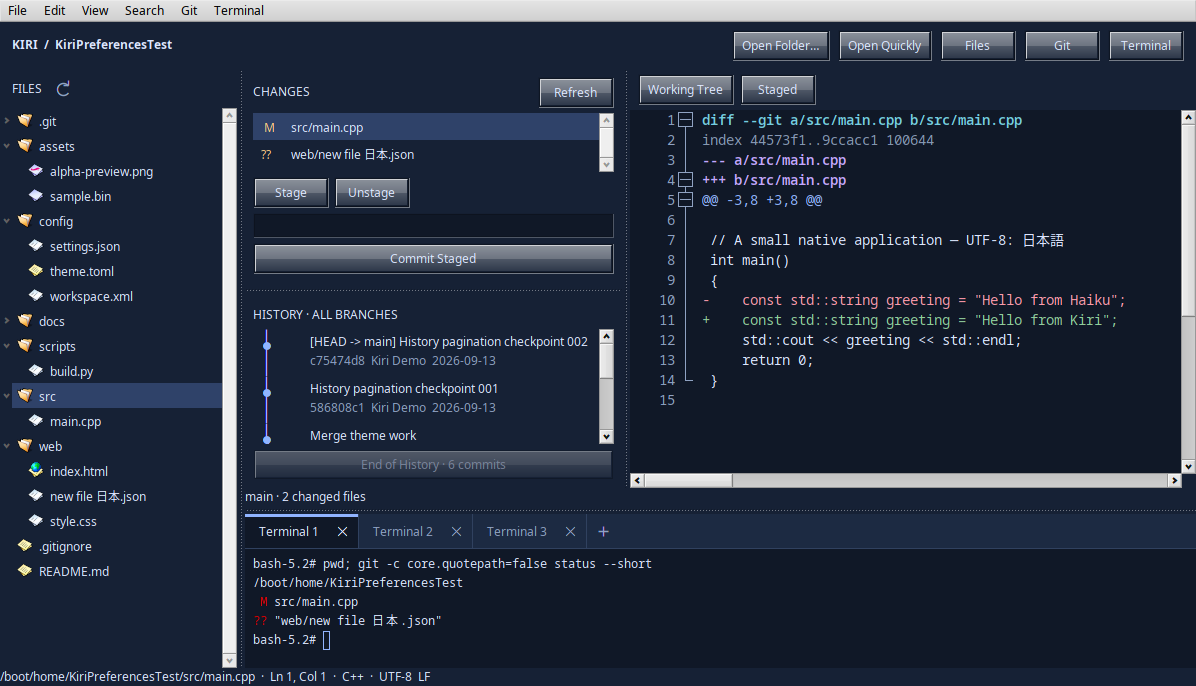
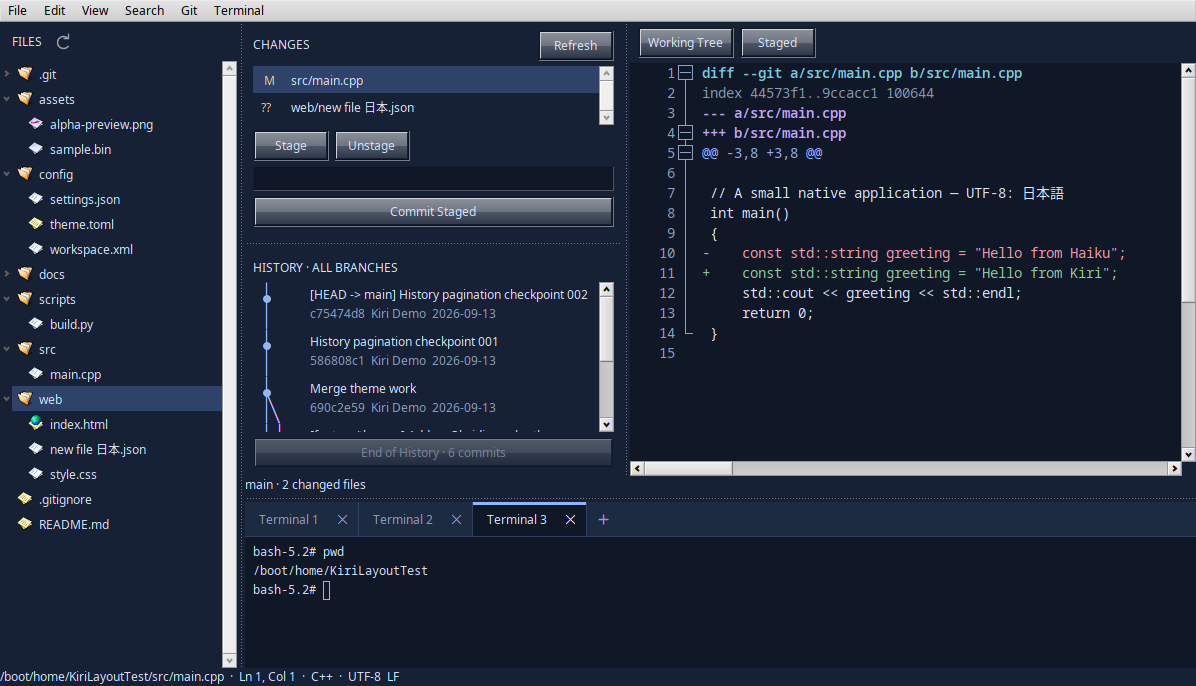
Simplify workspace by removing the top toolbar

diff --git a/src/ui/Workspace.cpp b/src/ui/Workspace.cpp
@@ -153,14 +153,6 @@ Workspace::Workspace(const std::string& settingsDirectory):BWindow(BRect(40,70,1
     fRecoveryDirectory=fSettings+"/recovery";create_directory(fRecoveryDirectory.c_str(),0700);
     fSessionToken=std::to_string(time(nullptr))+"-"+std::to_string(getpid());
     fRecoveryJobs=std::make_unique<AsyncQueue>(BMessenger(this));
-    fProjectTitle=new BStringView("project title","KIRI  /  No Project");fProjectTitle->SetFont(be_bold_font);
-    auto* open=new BButton("open project","Open Folder…",new BMessage(kOpenProject));
-    auto* files=new BButton("show files","Files",new BMessage(kToggleSidebar));
-    auto* git=new BButton("show git","Git",new BMessage(kToggleGit));
-    auto* terminal=new BButton("show terminal","Terminal",new BMessage(kToggleTerminal));
-    auto* quick=new BButton("quick open","Open Quickly",new BMessage(kQuickOpen));
-    auto* toolbar=new BView("toolbar",0);
-    BLayoutBuilder::Group<>(toolbar,B_HORIZONTAL,8).SetInsets(12,8,12,8).Add(fProjectTitle).AddGlue().Add(open).Add(quick).Add(files).Add(git).Add(terminal);
     fExplorer=new Explorer();fExplorer->requestDirectory=[this](std::string path){LoadDirectory(path);};
     fRefresh=new RefreshButton(new BMessage(kRefresh));
     auto* sidebar=new BView("sidebar",0);
@@ -194,7 +186,7 @@ Workspace::Workspace(const std::string& settingsDirectory):BWindow(BRect(40,70,1
     sidebar->SetExplicitMinSize(BSize(170,150));sidebar->SetExplicitMaxSize(BSize(600,B_SIZE_UNLIMITED));
     fStatus=new BStringView("status","Ready");fStatus->SetExplicitMinSize(BSize(200,25));
     auto* menu=BuildMenus();
-    BLayoutBuilder::Group<>(this,B_VERTICAL,0).Add(menu).Add(toolbar).Add(fSidebarSplit).Add(fStatus);
+    BLayoutBuilder::Group<>(this,B_VERTICAL,0).Add(menu).Add(fSidebarSplit).Add(fStatus);
     for(int32 i=0;i<CountChildren();++i) ThemeView(ChildAt(i),Theme::Builtins()[0]);
     ResizeTo(1195,685);
     RestoreSettings();ApplyTheme(fEditorSettings.theme);
@@ -275,7 +267,7 @@ void Workspace::OpenProject(const std::string& input) {
     if(!fs::is_directory(path,error)) { Notice("Cannot open that folder.");return; }
     bool changed=fProject!=path;
     fProject=path;++fGeneration;fIndex=std::make_shared<ProjectIndex>();fGitRoot.clear();fExplorer->Clear();fGit->SetRepository("");
-    fProjectTitle->SetText(("KIRI  /  "+fs::path(path).filename().string()).c_str());SetTitle((fs::path(path).filename().string()+" — Kiri").c_str());
+    SetTitle((fs::path(path).filename().string()+" — Kiri").c_str());
     Notice("Opening project…");auto generation=fGeneration;
     LoadDirectory(path);
     fJobs->Submit([this,path,generation](const auto& cancel) {

diff --git a/src/ui/Workspace.h b/src/ui/Workspace.h
@@ -108,7 +108,6 @@ private:
     BCardLayout* fModeLayout;
     BSplitView* fSidebarSplit;
     BSplitView* fTerminalSplit;
-    BStringView* fProjectTitle;
     BStringView* fStatus;
     BView* fFindBar;
     BTextControl* fFindText;

diff --git a/README.md b/README.md
@@ -4,7 +4,7 @@ A native C++ project editor for Haiku, with a file tree, source editing, an
 embedded terminal and a Git workspace. Kiri uses Haiku's Interface Kit,
 Scintilla, Lexilla and libvterm. There is no browser or web UI runtime.
 
-**0.1.0 beta 3** builds and runs on Haiku R1/beta5 x86_64. The application has
+**0.1.0 beta 4** builds and runs on Haiku R1/beta5 x86_64. The application has
 been exercised in QEMU/KVM, including real editing, staging and committing,
 crash recovery, image previews and a 200 MiB document. See the
 [verification record](docs/STATUS.md) and [performance measurements](docs/PERFORMANCE.md).
@@ -16,7 +16,7 @@ crash recovery, image previews and a 200 MiB document. See the
 Install the package from `artifacts/` on Haiku:
 
 ```sh
-pkgman install ./artifacts/kiri-0.1.0~beta3-1-x86_64.hpkg
+pkgman install ./artifacts/kiri-0.1.0~beta4-1-x86_64.hpkg
 /boot/system/apps/Kiri /path/to/project
 ```
 
@@ -42,8 +42,10 @@ the native release artifact is built with the Makefile.
 
 ## Workspace
 
-- **Open Folder** sets the lazy file tree, project index, Git repository and
+- **File → Open Folder…** sets the lazy file tree, project index, Git repository and
   terminal directory. Expand folders and double-click files to open them.
+  The window title shows the project folder. **View** contains controls for
+  showing and hiding the file tree, terminal and source control workspace.
   The refresh icon beside **FILES** picks up files created outside Kiri.
   The tree and document tabs show Haiku's native icons for source files, text,
   web pages, images, archives and other basic file types, with a generic fallback.
@@ -53,7 +55,7 @@ the native release artifact is built with the Makefile.
   keep their save prompts, and Cancel stops the remaining closes.
   Editing includes undo/redo, multiple selections, folding,
   indentation, line numbers, wrapping, zoom, find/replace and go to line.
-- **Open Quickly** searches file paths. **Search Project** finds literal text
+- **Search → Open Quickly…** searches file paths. **Search Project** finds literal text
   and opens a result at its line and column. Newer queries cancel older work.
 - **Edit → Preferences…** (Alt+,) opens editor preferences. Choose an installed
   font, a size from 8 to 48 points, and a theme with a live code preview.
@@ -75,7 +77,7 @@ the native release artifact is built with the Makefile.
   project directory. Tabs retain their directory, variables and scrollback while
   other sessions run. Changing projects starts a new tab and preserves existing
   shells. Close a session with its tab’s close control; closing the last session
-  hides the panel, and the toolbar’s **Terminal** control opens it again.
+  hides the panel, and **Terminal → Show / Hide** opens it again.
 - Each terminal is a real PTY with UTF-8, ANSI colors, scrollback and alternate-screen
   programs. Drag across rows to select output; Copy and Paste use the system clipboard.
 

diff --git a/docs/STATUS.md b/docs/STATUS.md
@@ -1,10 +1,13 @@
-# Beta 3 verification record
+# Beta 4 verification record
 
 Verified September 13, 2026 on Haiku R1/beta5 x86_64, hrev57937+113, in
 QEMU/KVM with 4 vCPUs and 4 GiB RAM. Native build: GCC 13.3, Scintilla 5.3.4,
 Lexilla 5.4.6. Portable core also built and tested with Linux GCC 13.3.
 
 ## Automated checks
+
+The suites below passed for beta 3. Beta 4 removes workspace chrome only;
+it was rebuilt natively and received the focused interaction checks below.
 
 - **163 core checks pass on Linux and Haiku.** Coverage includes literal
   subprocess arguments, timeout/cancellation/output limits; UTF-8 boundaries,
@@ -25,6 +28,15 @@ Lexilla 5.4.6. Portable core also built and tested with Linux GCC 13.3.
   and line counts and a 100,001-file index. See [measurements](PERFORMANCE.md).
 
 ## Observed native interaction
+
+Beta 4 removes the project breadcrumb and the entire top button row. The
+file tree and editor sit directly below the menu bar, with the project folder
+in the window title. In a fresh isolated application instance, Alt+Shift+O
+opened the folder picker and Alt+P opened Quick Open. Alt+B, Alt+Shift+G and
+Alt+` hid and restored the file tree, source control and terminal respectively.
+The View menu retained all three controls, and Alt+Shift+T opened a third
+terminal whose `pwd` output confirmed the project directory. Existing sessions
+remained open throughout the checks.
 
 Beta 3 used another isolated application signature and settings directory so
 the existing Kiri sessions could remain open. **Edit → Preferences** / Alt+,
@@ -56,7 +68,7 @@ beta 3 reran the portable suite and expanded native checks for preferences and i
 
 | Area | Evidence |
 | --- | --- |
-| Workspace | Native toolbar, file tree, resizable panels, scrolling tabs, keyboard navigation, line gutter, file-type icons and ten color themes. |
+| Workspace | Native menus, file tree, resizable panels, scrolling tabs, keyboard navigation, line gutter, file-type icons and ten color themes. |
 | Source files | C++, HTML, JSON, XML and Python render with highlighting; go to line and project-search navigation reach the requested location. |
 | Editing and saving | Native Save As, existing-file save, consecutive untitled files through Save All, clipboard and undo/redo. Cancelling quit after an earlier Discard leaves both remaining documents dirty. |
 | Recovery | Force-killed Kiri with an unsaved two-line draft, restarted it, verified the text and dirty state, then saved it and confirmed draft cleanup. |
